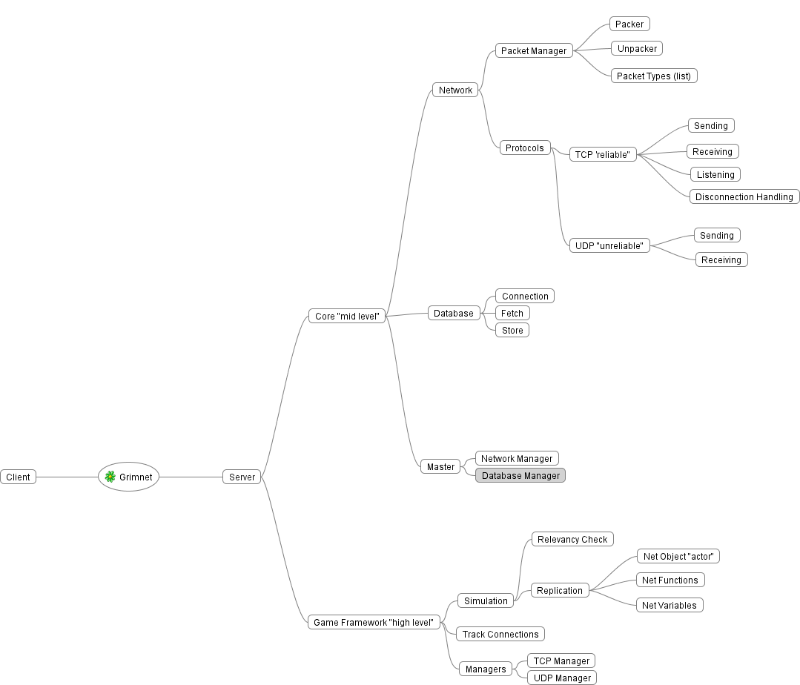
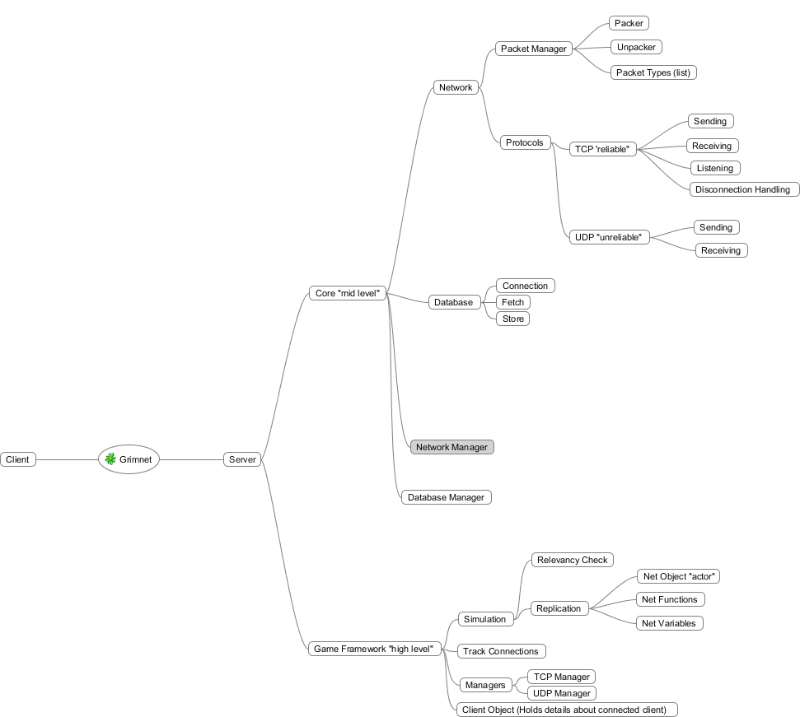
Getting network core structure ready, Basic TCP core working, updated planning map, WIP

diff --git a/src/Server/Core/Network/Protocols/TCP.py b/src/Server/Core/Network/Protocols/TCP.py
@@ -14,16 +14,18 @@ from panda3d.core import Datagram
 from panda3d.core import DatagramIterator
 
 from direct.task.Task import Task
+from Server.Core.Network.Packets.Opcodes import MSG_NONE
+from Server.Utils.Util import generateUUID
 
 ########################################################################
 
 
 class TCP():
 
-    def __init__(self, _master):
+    def __init__(self, _core):
     	print "TCP Protocol Init"
-        self.master = _master
-    	self.config = self.master.config
+        self.core = _core
+    	self.config = self.core.server.config
 
 
     def start(self):
@@ -65,7 +67,7 @@ class TCP():
                 
                 # Tell the reader about the new TCP connection
                 self.tcpReader.addConnection(newConnection)
-                #self.serverManager.lobbyManager.handleJoinLobby(newConnection, netAddress)
+                self.core.server.gameFramework.createNewClient(generateUUID(),newConnection, netAddress)
                     
                 print "Server: New Connection from -", str(netAddress.getIpString())
             else:
@@ -87,6 +89,7 @@ class TCP():
             else:
                 # Handle it
                 #self.packetManager.handlePacket(opcode, data, datagram.getAddress())
+                print "something"
 
         return Task.cont
 
@@ -125,10 +128,10 @@ class TCP():
             
             for client in self.serverManager.clients:
                 if self.serverManager.clients[client].connection == resetConnection.p():
-                    del self.serverManager.clients[client]
+                    #del self.serverManager.clients[client]
                     self.tcpReader.removeConnection(resetConnection.p())
-                    print "Removed Connection:", resetConnection.p()
-                    print 'Current Clients:', self.serverManager.clients
+                    #print "Removed Connection:", resetConnection.p()
+                    #print 'Current Clients:', self.serverManager.clients
                     break
 
         return Task.cont

diff --git a/Docs/grimnet_planning.mm b/Docs/grimnet_planning.mm
@@ -28,10 +28,8 @@
 <node CREATED="1469729000668" ID="ID_1138451937" MODIFIED="1469729003527" TEXT="Fetch"/>
 <node CREATED="1469729005235" ID="ID_834183169" MODIFIED="1469729007288" TEXT="Store"/>
 </node>
-<node CREATED="1469884862331" HGAP="47" ID="ID_1248057898" MODIFIED="1469884873118" TEXT="Master" VSHIFT="-72">
-<node CREATED="1469884881702" ID="ID_740830129" MODIFIED="1469884890156" TEXT="Network Manager"/>
+<node CREATED="1469884881702" HGAP="32" ID="ID_740830129" MODIFIED="1470078426046" TEXT="Network Manager" VSHIFT="-46"/>
 <node CREATED="1469884894095" ID="ID_710374544" MODIFIED="1469884898414" TEXT="Database Manager"/>
-</node>
 </node>
 <node CREATED="1469695856829" HGAP="63" ID="ID_1113788897" MODIFIED="1469778391023" TEXT="Game Framework &quot;high level&quot;" VSHIFT="-31">
 <node CREATED="1469695944701" HGAP="23" ID="ID_120961644" MODIFIED="1469778157464" TEXT="Simulation" VSHIFT="5">
@@ -47,6 +45,7 @@
 <node CREATED="1469778257989" ID="ID_201967929" MODIFIED="1469778267589" TEXT="TCP Manager"/>
 <node CREATED="1469778269323" ID="ID_548453830" MODIFIED="1469778273740" TEXT="UDP Manager"/>
 </node>
+<node CREATED="1469991467737" ID="ID_797444184" MODIFIED="1469991508927" TEXT="Client Object (Holds details about connected client)"/>
 </node>
 </node>
 <node CREATED="1469607715226" HGAP="83" ID="ID_1163281542" MODIFIED="1469690519849" POSITION="left" STYLE="bubble" TEXT="Client"/>

diff --git a/src/Server/Framework/GameFramework.py b/src/Server/Framework/GameFramework.py
@@ -8,25 +8,22 @@
 
 
 ## Server Imports ##
-import Server.Utils.Util
-from Network.Protocols.TCP import TCP
 
 
 ########################################################################
 
 
-class Master():
+class GameFramework():
 
     def __init__(self, _server):
 
         self.server = _server
 
-        # Load TCP Protocol
-        self.tcp = TCP(self)
+        self.clients = {}
 
-        # Load UDP Protocol
-
-        # Connections
-        self.connections = []
+    def createNewClient(self, _uuid, _connection, _ipAddress):
+    	self.clients[_uuid] = {}
+    	self.clients[_uuid]['connection'] = _connection
+    	self.clients[_uuid]['ipAddress'] = _ipAddress
 
         

diff --git a/src/server.py b/src/server.py
@@ -9,7 +9,8 @@ from direct.showbase.ShowBase import ShowBase
 
 ## Server Imports ##
 from Server.Config.Config import Config
-from Server.Core.Master import Master
+from Server.Core.Core import Core
+from Server.Framework.GameFramework import GameFramework
 
 ########################################################################
 
@@ -30,9 +31,10 @@ class Server(ShowBase):
         self.config = Config()
 
         # Start Master
-        self.master = Master(self)
+        self.core = Core(self)
 
         # Start Game Framework
+        self.gameFramework = GameFramework(self)
         
 
 server = Server()

diff --git a/src/Server/Core/Core.py b/src/Server/Core/Core.py
@@ -1,0 +1,28 @@
+#!/usr/bin/python
+#----------------------------------------------------------------------#
+
+## IMPORTS ##
+
+
+### PANDA Imports ###
+
+
+## Server Imports ##
+import Server.Utils.Util
+from Network.Protocols.TCP import TCP
+
+
+########################################################################
+
+# Core master (low level)
+class Core():
+
+    def __init__(self, _server):
+
+        self.server = _server
+
+        # Load TCP Protocol
+        self.tcp = TCP(self)
+
+        # Load UDP Protocol
+       

diff --git a/src/Server/Core/Network/Packets/Opcodes.py b/src/Server/Core/Network/Packets/Opcodes.py
@@ -10,6 +10,6 @@
 ## Server Imports ##
 
 ########################################################################
+# OPCODES #
 
-
-# Movement
+MSG_NONE = 0
